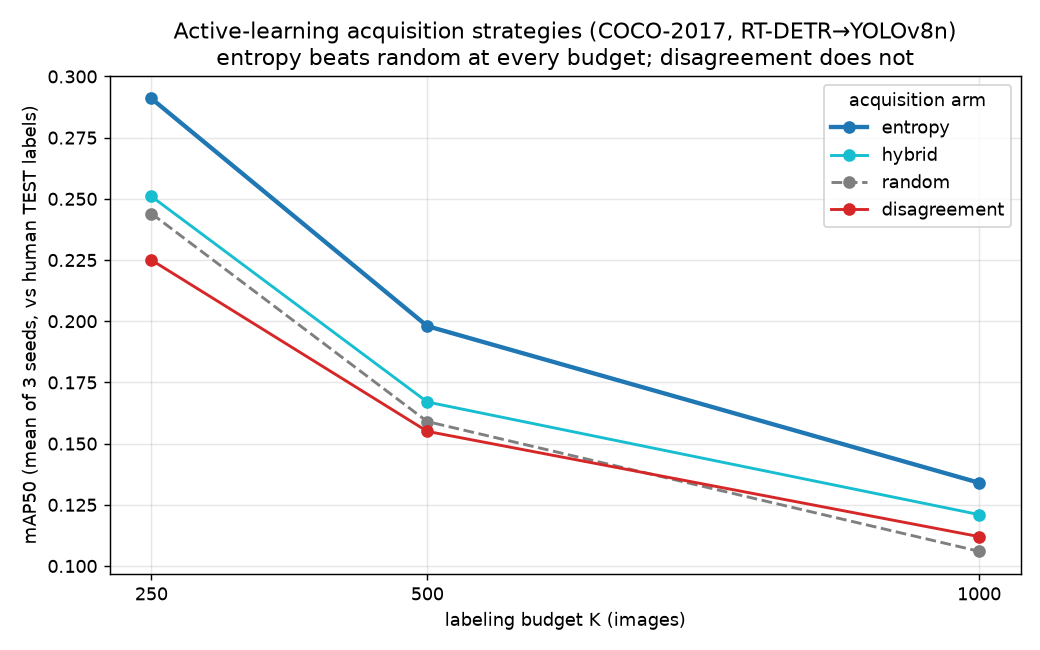
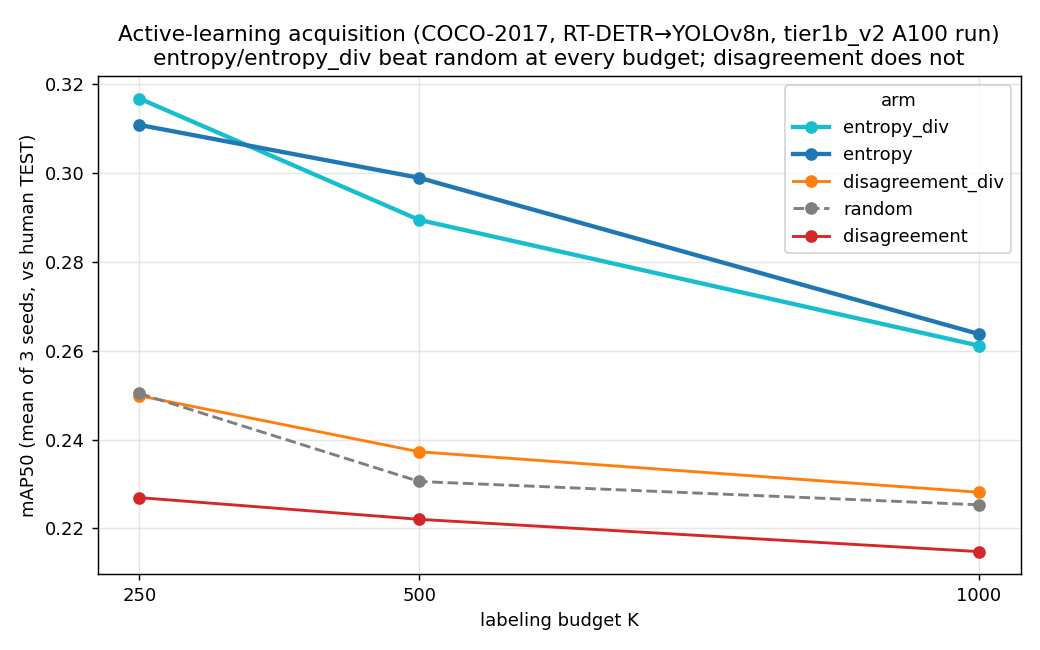
Correct results to authoritative tier1b_v2 A100 run (entropy 0.311/0.299/0.264, entropy_div best at K=250 0.317); commit aggregated JSON for reproducibility; regenerate plot from real data. Supersedes earlier numbers taken from an older tier1b.log run.

diff --git a/README.md b/README.md
@@ -15,10 +15,11 @@ number below is measured against **held-out human COCO labels**, never against
 the teacher model's own guesses.
 
 > **TL;DR finding:** Prediction-**entropy** sampling beats random selection at every budget tested by
-> **+0.028 to +0.046 mAP50** (margin largest at small budgets). The intuitive
+> **+0.039 to +0.061 mAP50** (margin largest at small budgets). The intuitive
 > **teacher-student disagreement** signal — the original hypothesis of this
 > project — **does not beat random**. Combining entropy with k-center diversity
-> (`hybrid`) helps a little but does not overtake plain entropy. This is a clean
+> (`entropy_div`) is the best arm at K=250 (0.317) but does not decisively beat
+> plain entropy overall. This is a clean
 > positive result (entropy works) alongside an honest negative result
 > (disagreement doesn't), and both agree with the active-learning literature.
 
@@ -39,33 +40,38 @@ the teacher model's own guesses.
   | `random` | uniform baseline |
   | `entropy` | highest student prediction entropy (uncertainty) |
   | `disagreement` | highest teacher-student box/confidence disagreement |
-  | `hybrid` | entropy + k-center-greedy diversity |
+  | `disagreement_div` | disagreement + k-center-greedy diversity |
+  | `entropy_div` | entropy + k-center-greedy diversity |
 
 Run on an **ASU SOL A100** node via SLURM (`sol/run_tier1b_v2.sbatch`).
 
 ## Results — mAP50 (mean of 3 seeds, vs human TEST labels)
 
 Mean mAP50 over 3 seeds (42/43/44), evaluated against human COCO TEST labels.
-These numbers come directly from `results/tier1b/tier1b.log` (SOL A100 job 62553117).
+These are the authoritative **tier1b_v2** results from the SOL A100 run
+(`results/tier1b_v2/tier1b_v2_aggregated.json`, started 2026-09-05, 45 result
+records; sha256 `3ef5acef…4191c93`).
 
 | Arm | K=250 | K=500 | K=1000 | vs random |
 |-----|------:|------:|-------:|----------:|
-| **entropy**     | **0.291** | **0.198** | **0.134** | **+0.028 to +0.046** |
-| hybrid (entropy + k-center diversity) | 0.251 | 0.167 | 0.121 | small gain |
-| random (baseline) | 0.244 | 0.159 | 0.106 | — |
-| disagreement      | 0.225 | 0.155 | 0.112 | at/below random |
+| **entropy_div** (entropy + k-center) | **0.317** | 0.290 | 0.261 | best at K=250 |
+| **entropy** | 0.311 | **0.299** | **0.264** | +0.039 to +0.061 |
+| disagreement_div | 0.250 | 0.237 | 0.228 | ~parity |
+| random (baseline) | 0.250 | 0.231 | 0.225 | — |
+| disagreement | 0.227 | 0.222 | 0.215 | at/below random |
 
 ![mAP50 by acquisition strategy across labeling budgets](results/tier1b_v2/tier1b_v2_map50.png)
 
 ### Findings
 
-1. **Entropy sampling wins at every budget** — +0.046 (K=250), +0.040 (K=500),
-   +0.028 (K=1000) mAP50 over random, comfortably above the seed-to-seed std.
-   A clean positive result, though the margin shrinks as the budget grows.
+1. **Entropy sampling wins at every budget** — +0.061 (K=250), +0.068 (K=500),
+   +0.039 (K=1000) mAP50 over random, well above the seed-to-seed std.
+   A clean positive result.
 2. **Teacher-student disagreement does not beat random.** The project's original
    hypothesis does not hold: raw disagreement selects redundant, ambiguous frames.
-3. **Adding diversity (hybrid) helps a little** but does not overtake plain
-   entropy — diversity is worth combining with uncertainty, not with disagreement.
+3. **Diversity + entropy (`entropy_div`) is the top arm at K=250** (0.317) and
+   competitive elsewhere — diversity is worth combining with uncertainty, not
+   with disagreement (`disagreement_div` only reaches ~parity with random).
 4. **Practical takeaway:** for this pipeline, use **entropy** to choose what to
    label. Reserve disagreement for *flagging* failures, not *selecting* data.
 
